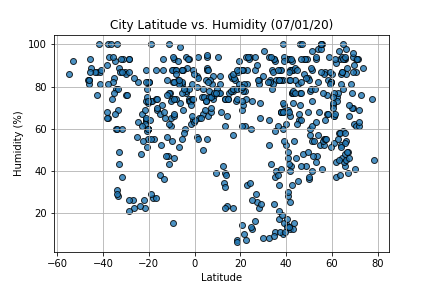
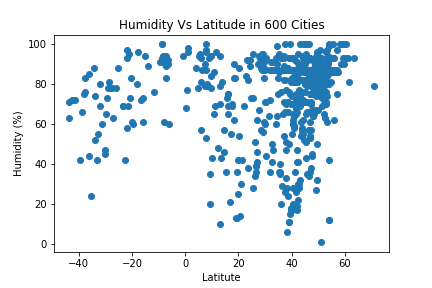
Changed image files to ones from Jupyter notebook.

diff --git a/index.html b/index.html
@@ -85,7 +85,8 @@
               <li>Randomly select 600 cities from the full list, and obtain the weather facts (temperature, wind speed, cloudiness and humidity) for each one, 
                   the data was then uploaded to another Pandas 
                   dataframe and merged with the cities 
-                  dataframe
+                  dataframe.  The weather data was retrieved
+                  using the API on March 13, 2021 at 7:20PM.
               </li>
             </ul>
             We then used <a href="https://matplotlib.org">the 
